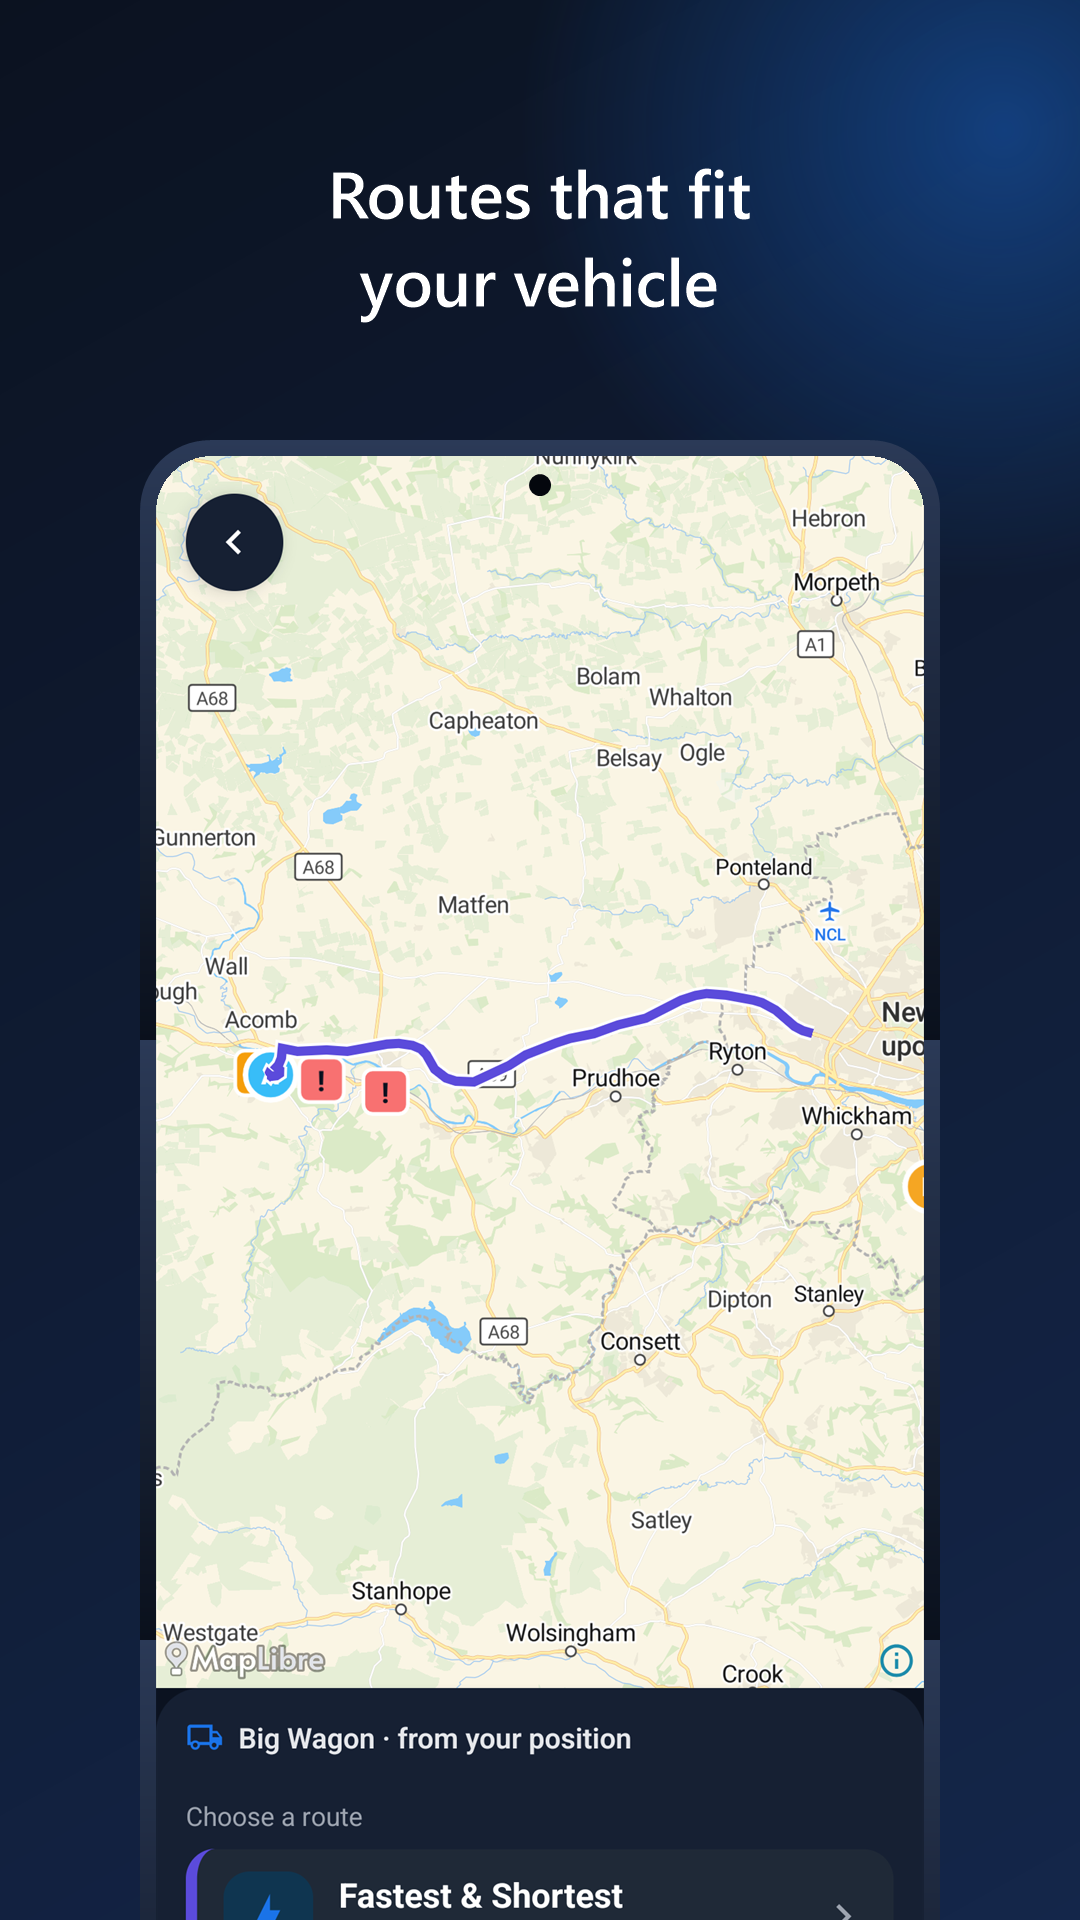
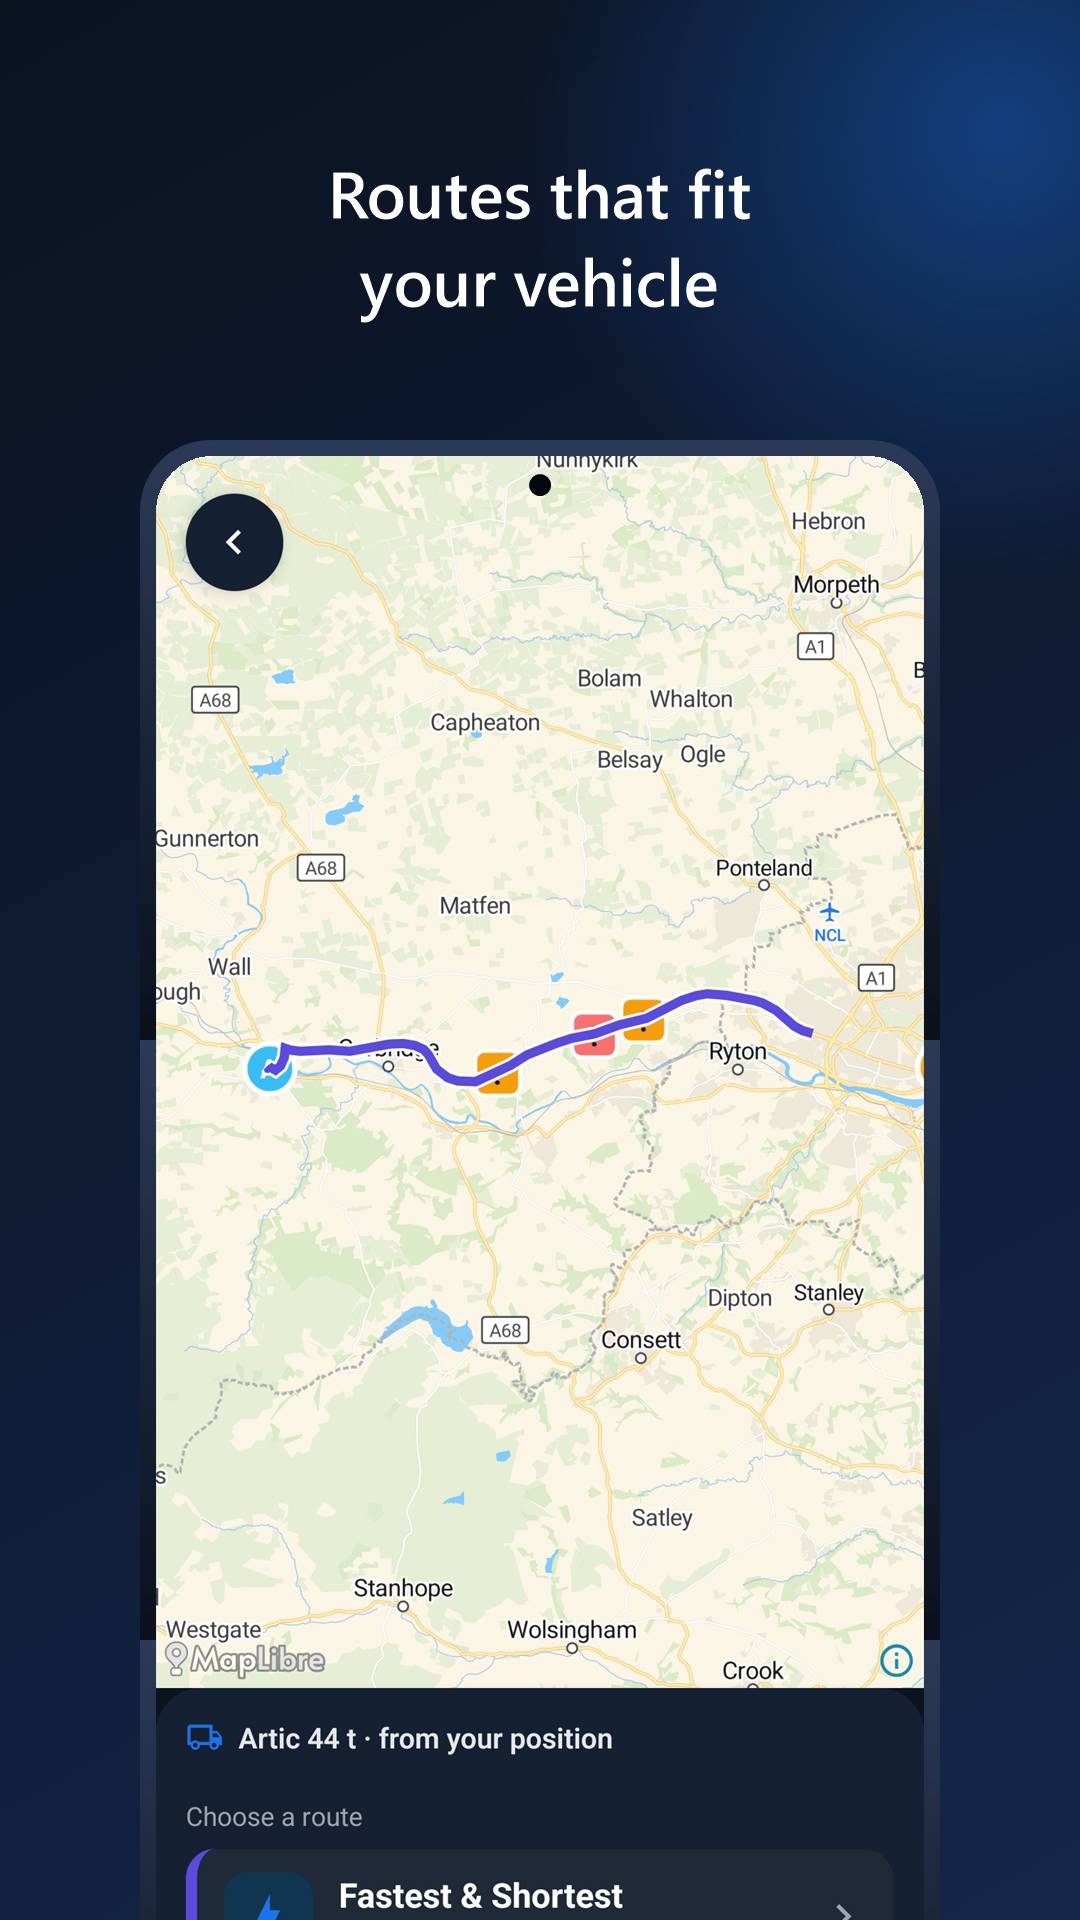
Retake the driver app's Play screenshots from the current app, and add a fuel prices shot

diff --git a/apps/driver-app/store-assets/README.md b/apps/driver-app/store-assets/README.md
@@ -1,10 +1,20 @@
 # Store and website assets
 
 - `play-icon-512.png`, `play-feature-graphic-1024x500.png`: Google Play graphics.
-- `raw/`: full-size driver-app screenshots taken on a local stack with dummy data.
+- `raw/`: full-size driver-app screenshots taken on a local stack with dummy data (1080x2400, Pixel 6 emulator, dark theme, 09:41).
 - `../../dashboard/store-assets/raw/`: the same for the staff portal (1440x900).
-- `framed/`: the eight raw screenshots framed with a headline, 1080 x 1920, ready for Google Play. Apple needs its own sizes (not made yet). `scripts/make-framed-screenshots.ps1` rebuilds them.
+- `framed/`: the nine raw screenshots framed with a headline, 1080 x 1920, ready for Google Play (it takes up to eight, so leave out the one you like least; the file numbers are the order shown). Apple needs its own sizes (not made yet). `scripts/make-framed-screenshots.ps1` rebuilds them.
 - `scripts/make-graphics.ps1`: rebuilds the icon and feature graphic.
-- `scripts/make-web-images.ps1`: crops and compresses the raw screenshots into `sites/landing/img/` as JPEGs. Then run `sites/make-webp.ps1`, which turns them into the WebP files the landing page serves and removes the JPEGs.
+- `scripts/make-web-images.ps1`: crops and compresses the raw screenshots into `sites/landing/img/` as JPEGs. Then run `sites/make-webp.ps1`, which turns them into the WebP files the landing page serves and removes the JPEGs. Not re-run since the 2026-11-04 retake, so the landing page still shows the older screens.
 
 All screenshots use made-up data (fictional firm, example emails). Scripts are Windows PowerShell and expect the repo at `E:\projects\wagonwise`.
+
+## Retaking them (last done 2026-11-04)
+
+Raw file to screen: `00` home map with the fuel pins, `01` trip mid-route, `02` route options, `03` hazards on the route, `04` parking card, `05` faster-route offer, `06` report a hazard, `08` job, `09` nearby fuel. (`03a-hazard-ahead-raw.png` is an older extra that is not framed and was not retaken.)
+
+1. **Stack.** `pnpm db:up` and `pnpm db:migrate` (Postgres), Valhalla running (`docker compose -f infra/docker/compose.yml --profile valhalla up -d valhalla`), then core (`pnpm --filter @wagonwise/core dev`) and the driver BFF (`pnpm --filter @wagonwise/driver-bff dev`). No keys are needed; leave the fuel, closures and traffic keys unset so core does not fetch real data.
+2. **Data** (all made up, put in by SQL, none of it in the repo): a driver `shots@example.com` with a vehicle profile "Artic 44 t" and JOB-1042 (Tynedale Depot, Hexham, to a Gateshead centre); nine fictional fuel stations with made-up diesel and petrol prices in `fuelprices.stations` and `fuelprices.prices` (names such as "Riverside Fuels", ids `shot-1` to `shot-9`, 145.9 to 153.5 p, reported 1 to 30 hours ago); a few hazards (roadworks, a tight bend, a 4.6 m low bridge) along the A69; one 30-minute congestion report on the route ahead of the vehicle (this is what makes the faster-route offer appear); and one driver-reported parking spot, "Tyne Valley Truck Stop" in Hexham, with every facility but Secure. A made-up row in `closures.closures` puts a road-closure marker on the A69 if you want one in a shot. Expire any other active hazards near the route first, or the route detours around them.
+3. **App.** The app uses MapLibre native code, so it needs a development build (installed on the `Pixel_6` AVD as `com.wagonwise.driverapp`), not Expo Go. From `apps/driver-app` run `npx expo start --dev-client`, then `adb reverse tcp:8081 tcp:8081`, then open `exp+wagonwise-driver-app://expo-development-client/?url=http%3A%2F%2F10.0.2.2%3A8081` on the emulator. Turn off the dev client's floating tools button (developer menu, Tools button off) and dismiss its first-run notice, or a grey gear sits over every shot. Sign in with the code core prints to its console, accept the privacy screen and skip the first-run walkthrough. Use the dark theme.
+4. **Clean phone.** Clock 09:41, full battery and wifi, no notifications: `adb shell settings put global sysui_demo_allowed 1`, then `adb shell am broadcast -a com.android.systemui.demo -e command clock -e hhmm 0941` (also `battery`, `network`, `notifications`; finish with `-e command exit`). Set the position with `adb emu geo fix <lon> <lat>` (Hexham is `-2.1040 54.9732`); for a trip, step the fix along the route's points a second apart so the app gets a heading.
+5. **Shoot.** `adb exec-out screencap -p > raw/<name>.png`, save over the files in `raw/`, run `scripts/make-framed-screenshots.ps1`, and look at every framed image for real names, plates, companies or addresses (labels and brand names that come from the map itself are fine), a stray dev-client button, and anything cut off.

diff --git a/docs/play-store-listing.md b/docs/play-store-listing.md
@@ -210,6 +210,12 @@ needs at least two. Each gets a short headline when framed (suggested wording be
 Optional extras if there are slots left or Play asks for more: vehicle profiles (the dimensions form), saved places, and the
 weather warning badge.
 
+**Taken 2026-11-04** (`apps/driver-app/store-assets/`, how to redo them is in its README): the framed set in `framed/` is nine screens in
+this order: home map (with fuel pins), trip, route options, hazards on the route, parking card, faster-route offer, report a hazard,
+a company job, and nearby fuel prices (new). Play takes eight, so leave one out; the first three show in search. They are not the
+table's eight: break planning and the route-options Fastest/Shortest pair were not shot (the route has one answer, "Fastest &
+Shortest"), and the voice screen is the report-a-hazard sheet.
+
 Do **not** use: the sign-in screen, the privacy notice, errors, empty states, or anything that shows a real person.
 
 ## Recruiting closed-test testers
